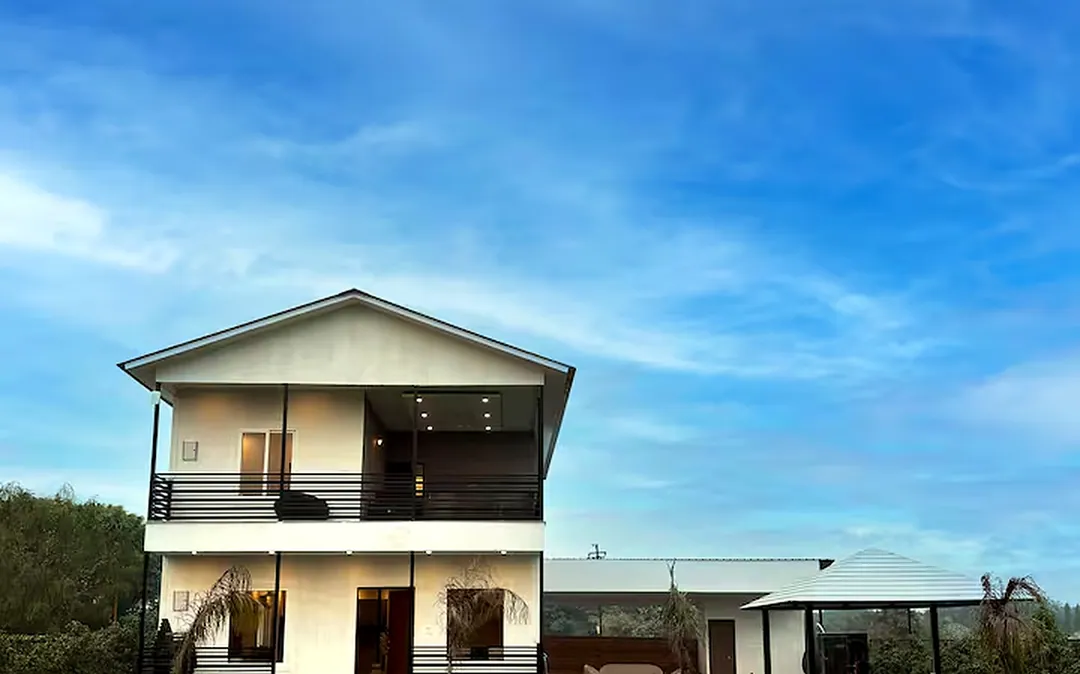
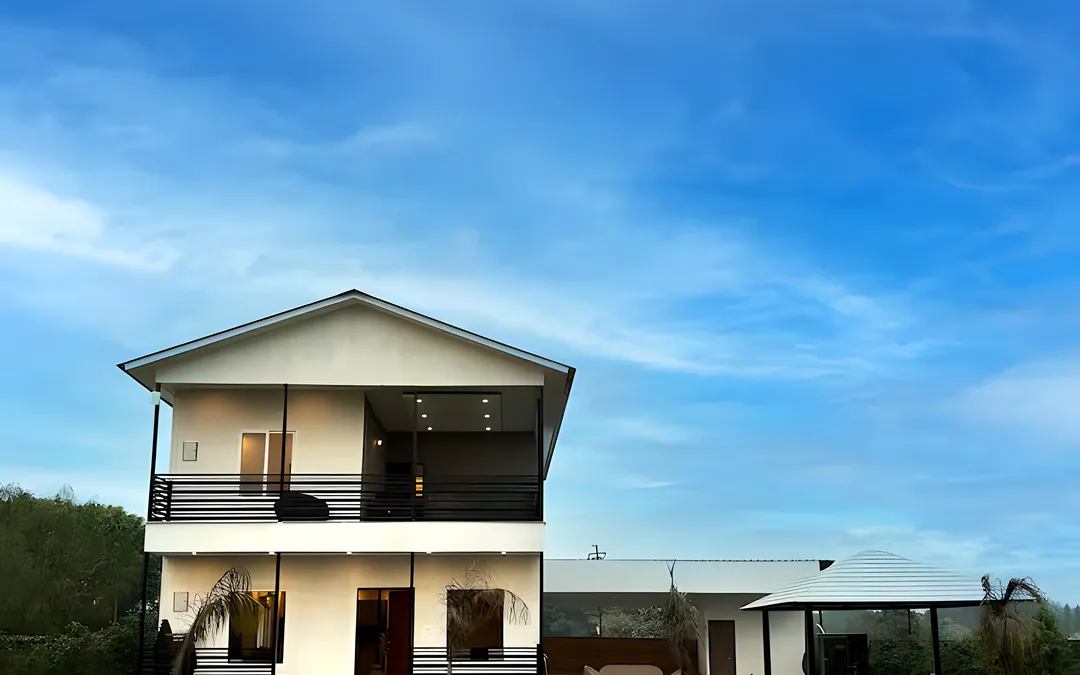
Oasis: first upscaled photographs in place; Evara case-study card shows the night render

diff --git a/src/data/hospitalityCases.js b/src/data/hospitalityCases.js
@@ -270,7 +270,7 @@ export const hospitalityCases = [
     location: "Vasundhara, Ghaziabad",
     size: "5,000 sq yd · two halls · 4 keys",
     engagement: "Architecture & banquet design",
-    image: photo("evara-bliss/hero.jpg", "The grand hall set for a wedding: the stage under its sculpted arch, dressed in flowers, with the patterned stone floor in front"),
+    image: photo("evara-bliss/concept.jpg", "The venue at night: the glass-fronted hall glowing with chandeliers, sculptural gilded forms over the entrance, lit trees and a water feature in front"),
     lead: "A 5,000 sq yd plot in Vasundhara, Ghaziabad, built as a destination for celebrations of every scale: a 22,000 sq ft grand banquet, a 7,000 sq ft intimate hall, four guest rooms, offices and food-tasting rooms, under one architectural identity.",
     summary:
       "Evara Bliss is a purpose-built venue for celebrations, planned so that events of very different sizes can run side by side without losing a sense of place. Two banquet halls, of about 22,000 and 7,000 sq ft, take the grand wedding and the intimate function; four guest rooms, administrative offices and dedicated food-tasting rooms carry the operational side, so a host can plan the menu, stay the night and hold the event at one address. The architecture is part of the experience: the massing, the facade and the lighting are composed to make arrival feel like the first act of the celebration, and the interiors carry that drama through the halls, the lounge and the corridors.",
